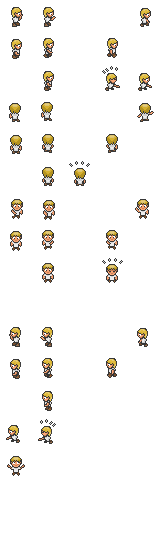
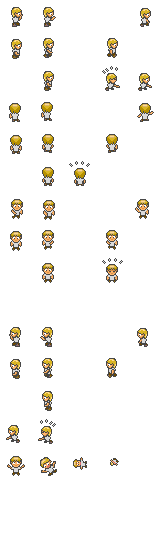
update

diff --git a/rooms/rat.tsx b/rooms/rat.tsx
@@ -62,6 +62,11 @@
   <objectgroup draworder="index">
    <object id="1" x="6" y="6" width="14" height="10"/>
   </objectgroup>
+  <animation>
+   <frame tileid="16" duration="100"/>
+   <frame tileid="16" duration="100"/>
+   <frame tileid="22" duration="100"/>
+  </animation>
  </tile>
  <tile id="17">
   <properties>
@@ -70,6 +75,11 @@
   <objectgroup draworder="index">
    <object id="1" x="-1" y="7" width="16" height="9"/>
   </objectgroup>
+  <animation>
+   <frame tileid="17" duration="100"/>
+   <frame tileid="17" duration="100"/>
+   <frame tileid="23" duration="100"/>
+  </animation>
  </tile>
  <tile id="18">
   <properties>
@@ -86,5 +96,20 @@
   <objectgroup draworder="index">
    <object id="1" x="5" y="8" width="9" height="12"/>
   </objectgroup>
+ </tile>
+ <tile id="24">
+  <properties>
+   <property name="state" value="sleeping"/>
+  </properties>
+  <animation>
+   <frame tileid="24" duration="100"/>
+   <frame tileid="24" duration="100"/>
+   <frame tileid="25" duration="100"/>
+   <frame tileid="25" duration="100"/>
+   <frame tileid="26" duration="100"/>
+   <frame tileid="26" duration="100"/>
+   <frame tileid="25" duration="100"/>
+   <frame tileid="25" duration="100"/>
+  </animation>
  </tile>
 </tileset>

diff --git a/rooms/pnj.tsx b/rooms/pnj.tsx
@@ -1,0 +1,22 @@
+<?xml version="1.0" encoding="UTF-8"?>
+<tileset name="pnj" tilewidth="16" tileheight="22" tilecount="36" columns="9">
+ <image source="pnj.png" trans="ff00da" width="144" height="80"/>
+ <tile id="0">
+  <properties>
+   <property name="state" value="old"/>
+  </properties>
+  <animation>
+   <frame tileid="0" duration="133"/>
+   <frame tileid="0" duration="133"/>
+   <frame tileid="0" duration="133"/>
+   <frame tileid="0" duration="133"/>
+   <frame tileid="1" duration="133"/>
+   <frame tileid="1" duration="100"/>
+  </animation>
+ </tile>
+ <tile id="2">
+  <properties>
+   <property name="state" value="transp"/>
+  </properties>
+ </tile>
+</tileset>

diff --git a/rooms/hero.tsx b/rooms/hero.tsx
@@ -220,4 +220,16 @@
    <property name="state" value="receive"/>
   </properties>
  </tile>
+ <tile id="71">
+  <properties>
+   <property name="state" value="falling"/>
+  </properties>
+  <animation>
+   <frame tileid="71" duration="100"/>
+   <frame tileid="72" duration="100"/>
+   <frame tileid="73" duration="100"/>
+   <frame tileid="73" duration="100"/>
+   <frame tileid="73" duration="100"/>
+  </animation>
+ </tile>
 </tileset>

diff --git a/rooms/items16.tsx b/rooms/items16.tsx
@@ -6,6 +6,11 @@
    <property name="state" value="letter"/>
   </properties>
  </tile>
+ <tile id="1">
+  <properties>
+   <property name="state" value="transp"/>
+  </properties>
+ </tile>
  <tile id="2">
   <properties>
    <property name="state" value="chest_open"/>

diff --git a/room_start_ug_laby.c b/room_start_ug_laby.c
@@ -1,0 +1,68 @@
+#include "miniz.h"
+
+#define MAPS_IMPLEMENTATION
+#include "map_start_ug_laby.h"
+
+static uint8_t dialog_old (struct ExtraObject *this) 
+{
+	if (!status.start_laby_talked_old) {
+		window_dialog (PNJ_OLD,"It's dangerous to go alone. \n Take this.",0);
+		// FIXME give wine
+		player_take_anim(1);
+		window_dialog (PLAYER, "Well, ... thank you","...");
+		window_dialog (PNJ_OLD,"What ?",0);
+		window_dialog (PLAYER, "It's a bottle of wine ! \nDon't you think I'm too young for this ?",0);
+		window_dialog (PNJ_OLD,"Ah ! Of course. Give it back to me",0);
+		window_draw_hud();
+		status.start_laby_talked_old=1;
+	} else if (status.sword==0) {
+		window_dialog (PNJ_OLD,"It's dangerous to go alone. \n Take this.",0);
+		player_take_anim(2);
+		window_dialog (PLAYER, "Well, ... thank you","...");
+		window_dialog (PNJ_OLD,"What, *again* ?",0);
+		window_dialog (PLAYER, "It's just a wood stick !",0);
+		int ans =  window_dialog (PNJ_OLD,"Spoiled child !\n Do you want it or not ?","No .. \nYes !");
+		if (ans) {
+			status.sword=obj_sword_stick;
+		}		
+	} else {
+		window_dialog (PNJ_OLD,"It's dangerous to go alone.\n But you have my stick now.\n Leave me alone.",0);
+		window_dialog (PLAYER, "But won't it be dangerous to be alone ?",0);
+		window_dialog (PNJ_OLD,"uuh ..",0);
+	}
+	window_draw_hud();
+	return col_block;
+}
+
+
+static const uint16_t entries[][2] = {{0,44}};
+void start_ug_laby_enter(uint8_t entry)
+{	
+	player.x = entries[entry][0];
+	player.y = entries[entry][1];
+
+
+	for (int i=0;i<room.nb_objects;i++) {
+		struct ExtraObject *eo = &room.objects[i];
+		switch(eo->type) {
+			case type_start_ug_laby_old : 
+				eo->collide = dialog_old;
+				break;
+		}
+	}
+
+}
+void start_ug_laby_frame()
+{
+	
+}
+void start_ug_laby_exit()
+{
+	
+}
+
+uint8_t start_ug_laby_background_collide(uint8_t bgtype)
+{
+	return bgtype;
+}
+

diff --git a/behaviours.c b/behaviours.c
@@ -5,8 +5,8 @@
 
 // get all useful sprites/maps defs. not sure you can use X macros here 
 #include "sprite_rat.h"
-#include "sprite_items16.h"
 #include "sprite_hero.h"
+#include "sprite_items16.h" // for chest
 
 // set speed according to state
 static void rat_setspeed(struct ExtraObject *this)
@@ -97,35 +97,23 @@ uint8_t collide_chest(struct ExtraObject *this)
 {
 	if (GAMEPAD_PRESSED(0,B)) {
 		object_set_state(this,state_items16_chest_open); // open it
-		int old_state = player.state; // save player state
-		object_set_state(&player, state_hero_receive);
-
-		// force update of frames now
-		object_transfer(&player);
 		object_transfer(this);
 
-		// display item as a raw sprite
-		object *spr= sprite_new(
-				sprite_items16.file,
-				player.spr->x+15,
-				player.spr->y+2,
-				-1); // front of player
-		// TODO frame from obj_type !
-
-		for (int i=0;i<10;i++) {
-			spr->y-=1;
-			wait_vsync(6);
-		}
-
-		blitter_remove(spr); // FIXME crash on exit room ?
-		
-		object_set_state(&player, old_state);
+		player_take_anim(this->data.w);
 		// TODO inventory update
 
 		// will not give anymore
 		this->collide = 0;
-
-
 	}
 	return col_block;
+}
+
+
+// exit to room b[0], exit number b[1]
+uint8_t collide_exit(struct ExtraObject *this)
+{
+	// TODO trigger a small exit animation with b[2] ?
+	wait_vsync(20);
+	room_load(this->data.b[0], this->data.b[1]);
+	return col_walk;
 }

diff --git a/player.c b/player.c
@@ -1,6 +1,7 @@
 #include "miniz.h"
 
 #include "sprite_hero.h"
+#include "sprite_items16.h" // for take
 
 // collision between player and objects
 // room transforms the collision type into collision type
@@ -133,6 +134,49 @@ void player_control(void)
 	else 
 		player_control_walk();
 }
+
+
+void player_fall(int room_id, int entry)
+{
+	object_set_state(&player, state_hero_falling);
+	object_transfer(&player);
+	wait_vsync(10);
+
+	for (int i=0;i<30;i++) {
+		object_anim_frame(&player);
+		object_transfer(&player);
+		wait_vsync(1);
+	}
+	room_load(room_id,entry);
+}
+
+
+void player_take_anim(int object_type)
+{
+	int old_state = player.state; // save player state
+	object_set_state(&player, state_hero_receive);
+
+	// force update of frames now
+	object_transfer(&player);
+
+	// display item as a raw sprite
+	object *spr= sprite_new(
+			sprite_items16.file,
+			player.spr->x+15,
+			player.spr->y+2,
+			-1); // front of player
+	// TODO frame from obj_type !
+
+	for (int i=0;i<10;i++) {
+		spr->y-=1;
+		wait_vsync(6);
+	}
+
+	blitter_remove(spr); // FIXME crash on exit room ?
+	
+	object_set_state(&player, old_state);
+}
+
 
 void player_init(void)
 {

diff --git a/miniz.h b/miniz.h
@@ -11,6 +11,7 @@
 	X(bateau) \
 	X(town_nuit) \
 	X(start_underground) \
+	X(start_ug_laby) \
 
 
 // room defs
@@ -29,6 +30,7 @@ enum room_id_list {
 #define FATHER 0x66
 #define GUARD_ANGRY 0x52
 #define GUARD_NEUTRAL 0x51
+#define PNJ_OLD 0x76
 
 
 // quad u32<->4u8
@@ -120,9 +122,11 @@ struct Status {
 	unsigned sword: 3; // different types, only one at a time. see sword enum
 
 	unsigned keys:2;
+
 	// switches
 	unsigned town_nuit_guard_talked: 2;
 	unsigned start_sub_shown_msg:1;
+	unsigned start_laby_talked_old:1;
 };
 
 extern struct Room room;
@@ -149,6 +153,8 @@ void player_obj_collide( Quad *q );
 void player_control(void);
 void player_init(void);
 void player_reset(void); // reset for room
+void player_fall(int room_id, int entry); 
+void player_take_anim(int object_type);
 
 // resource 
 void resource_init(void);

diff --git a/room_start_underground.c b/room_start_underground.c
@@ -12,9 +12,22 @@ void start_underground_enter(uint8_t entry)
 	player.y = 580;
 
 	for (int i=0;i<room.nb_objects;i++) {
-		if (room.objects[i].type == type_start_underground_rat) {
-			room.objects[i].update = rat_update;
-			room.objects[i].collide = collide_hurt;
+		struct ExtraObject *eo = &room.objects[i];
+		switch(eo->type) {
+			case type_start_underground_rat : 
+				eo->update = rat_update;
+				eo->collide = collide_hurt;
+				break;
+
+			case type_start_underground_rat_sleep : 
+				eo->collide = collide_hurt;
+				break;
+
+			case type_start_underground_exit1 : 
+				eo->data.b[0]=room_start_ug_laby;
+				eo->data.b[1]=0;
+				eo->collide = collide_exit;
+				break;
 		}
 	}
 }

diff --git a/room_start.c b/room_start.c
@@ -60,9 +60,7 @@ uint8_t start_background_collide(uint8_t bgtype)
 
 		case terrain_start_hole : 
 			// must have all feet there
-			// player_fall(room, entry);
-			message("falling animation ...\n");
-			room_load(room_start_underground,0);
+			player_fall(room_start_underground,0);
 			return col_walk;
 
 		default: 

diff --git a/behaviours.h b/behaviours.h
@@ -5,3 +5,4 @@ void rat_update(struct ExtraObject *this);
 uint8_t collide_hurt(struct ExtraObject *this);
 uint8_t collide_canpull(struct ExtraObject *this);
 uint8_t collide_chest(struct ExtraObject *this);
+uint8_t collide_exit(struct ExtraObject *this);

diff --git a/resources.c b/resources.c
@@ -27,6 +27,7 @@
 #include "sprite_items16.h"
 #include "sprite_rat.h"
 #include "sprite_watermonster.h"
+#include "sprite_pnj.h"
 #undef SPRITE_IMPLEMENTATION
 
 #define MAX_COMPRESSED 16 // max nb of decompressed objects at once
